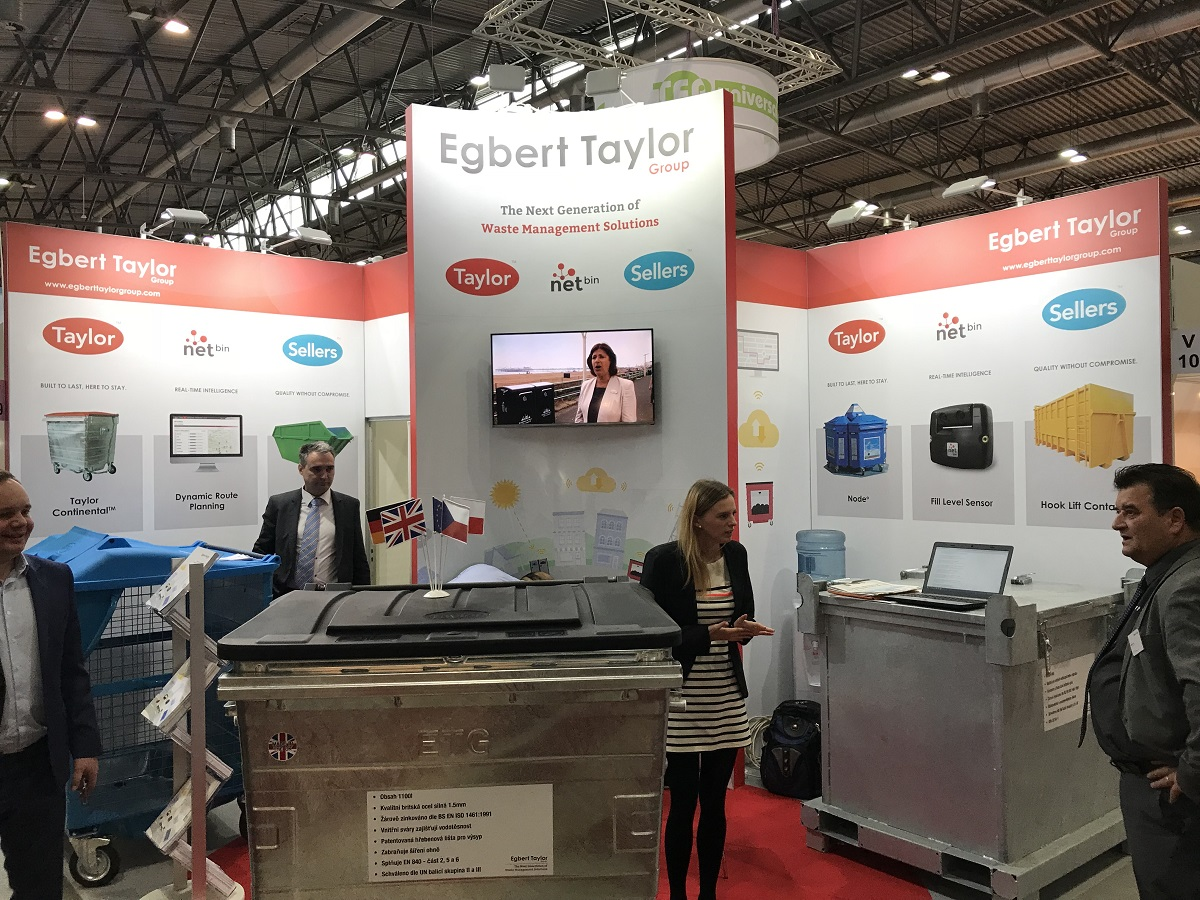
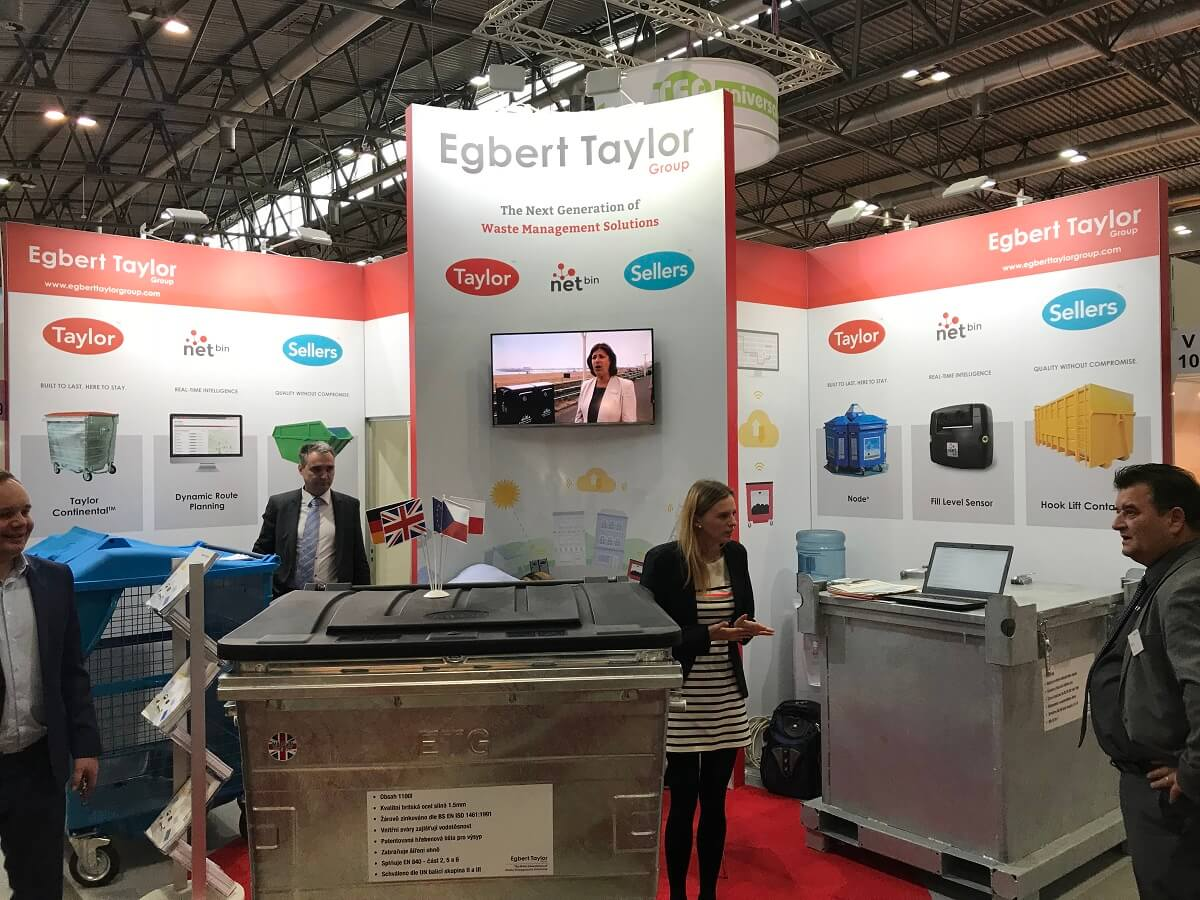
upload images compressed with TinyPNG and delete the non-compressed ones

diff --git a/README.md b/README.md
@@ -166,7 +166,15 @@ Due to no JavaScript functionality, apart from the Back-To-Top button as outline
 
 ** **
 
+Testing has been carried out using the following web services:
 
+*   HTML on all pages, tested clear on DAtE/TIME [The W3C Markup Validation Service](https://validator.w3.org/)
+
+*   CSS, tested clear on DAtE/TIME [The W3C CSS Validation Service](http://jigsaw.w3.org/css-validator/)
+
+*   All pages pass through [Google Lighthouse](https://developers.google.com/web/tools/lighthouse) with scores of 95
+
+No further changes to the code have been made since the above dates and times.
 
 
 ** **
@@ -188,14 +196,6 @@ Due to no JavaScript functionality, apart from the Back-To-Top button as outline
 Google Fonts
 
     Google fonts are used throughout the project to import the Libre Baskerville and Cabin fonts.
-
-GitHub
-
-    GithHub is the hosting site used to store the source code for the Website and Git Pages is used for the deployment of the live site.
-
-Git
-
-    Git is used as version control software to commit and push code to the GitHub repository where the source code is stored.
 
 Google Chrome Developer Tools
 
